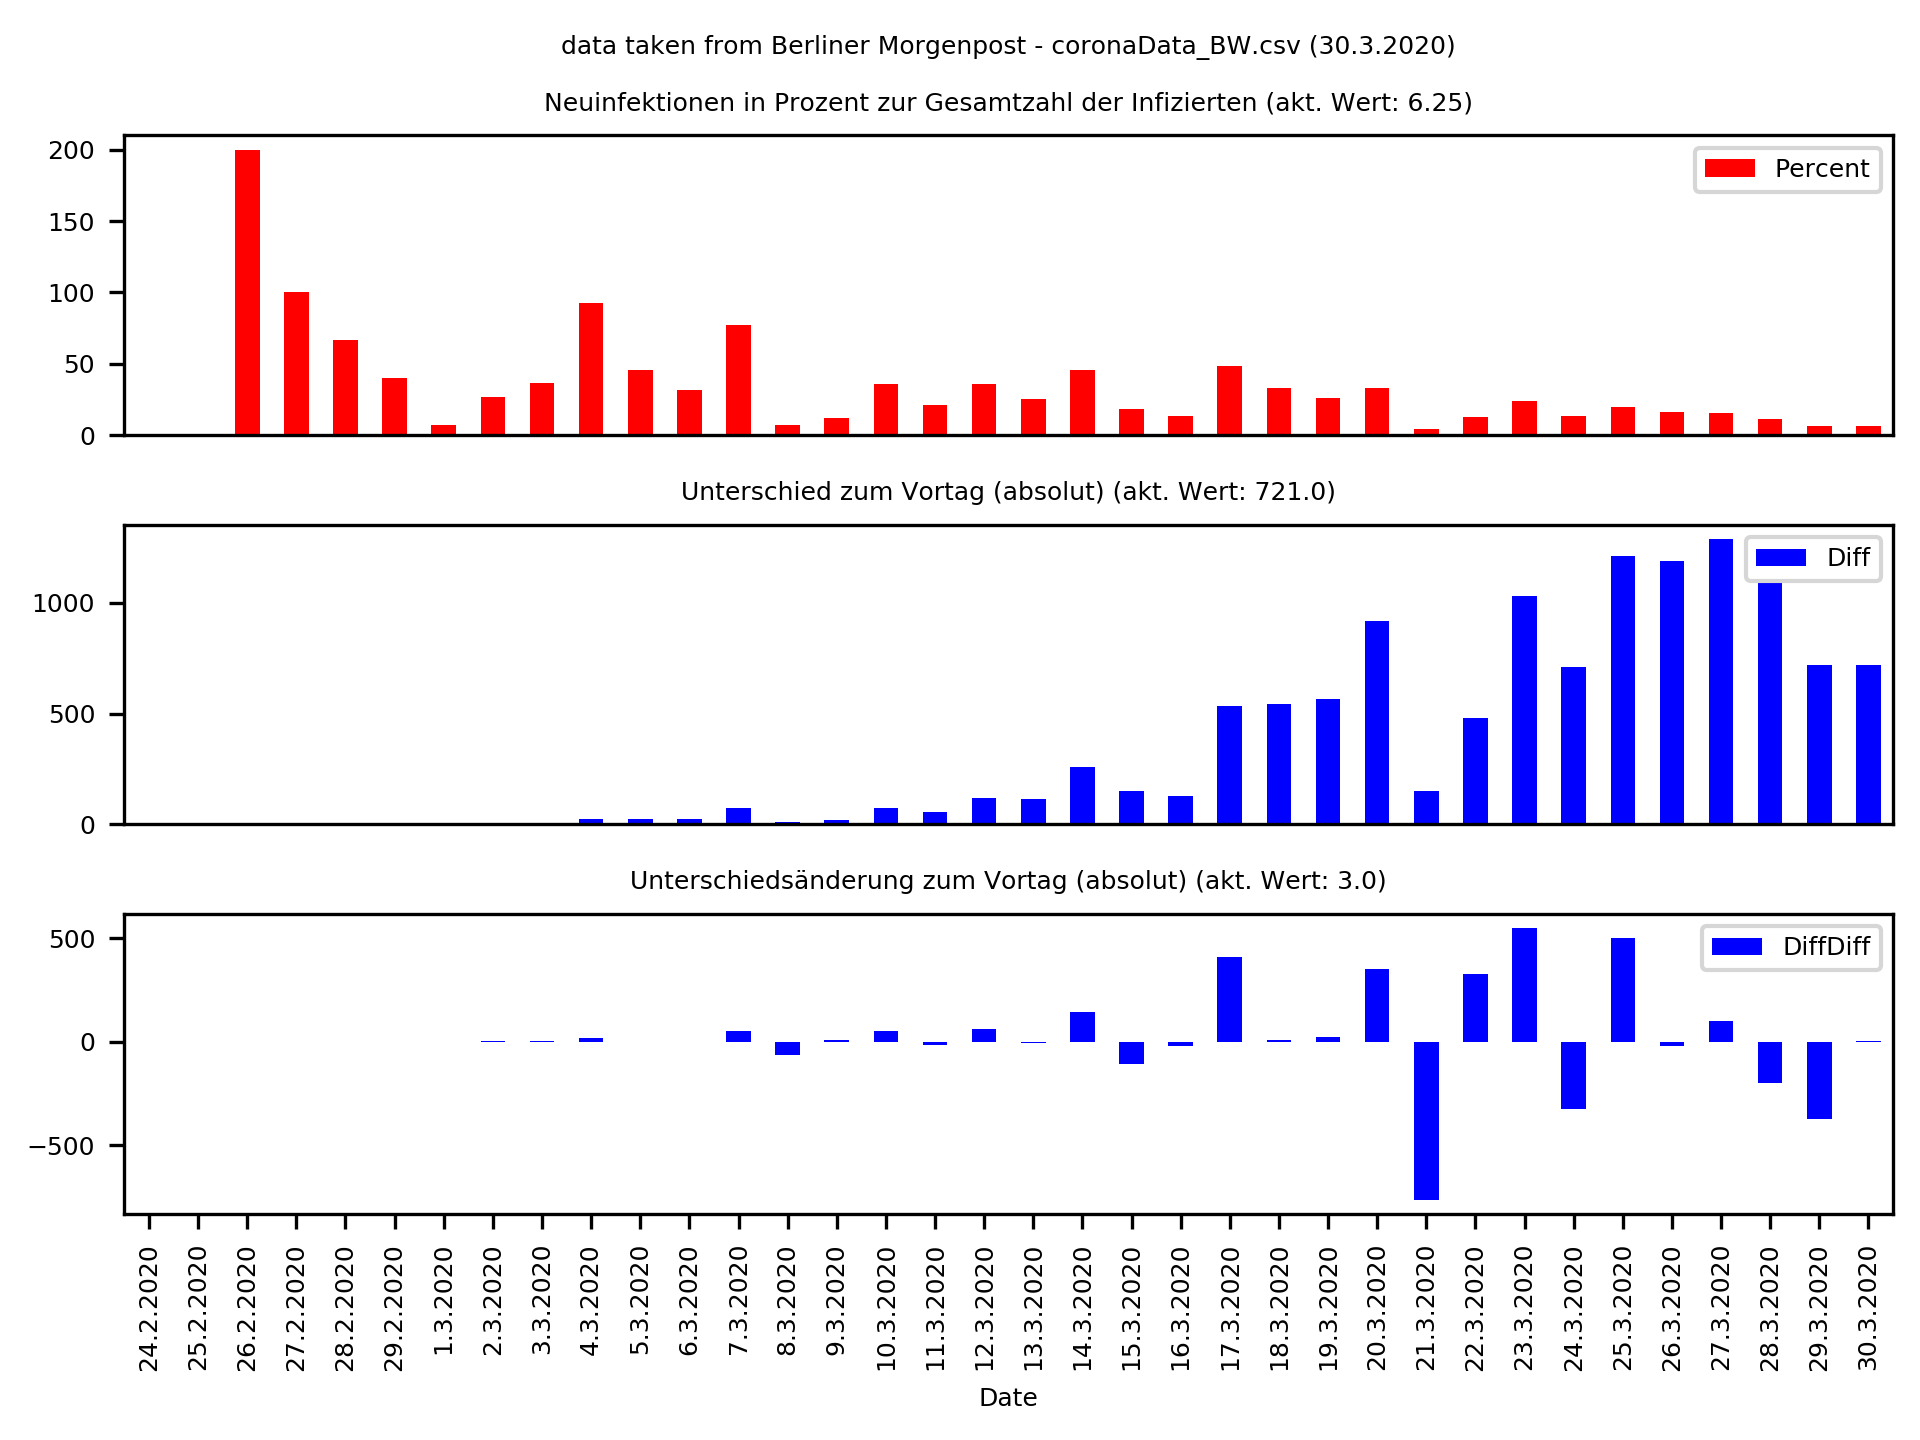
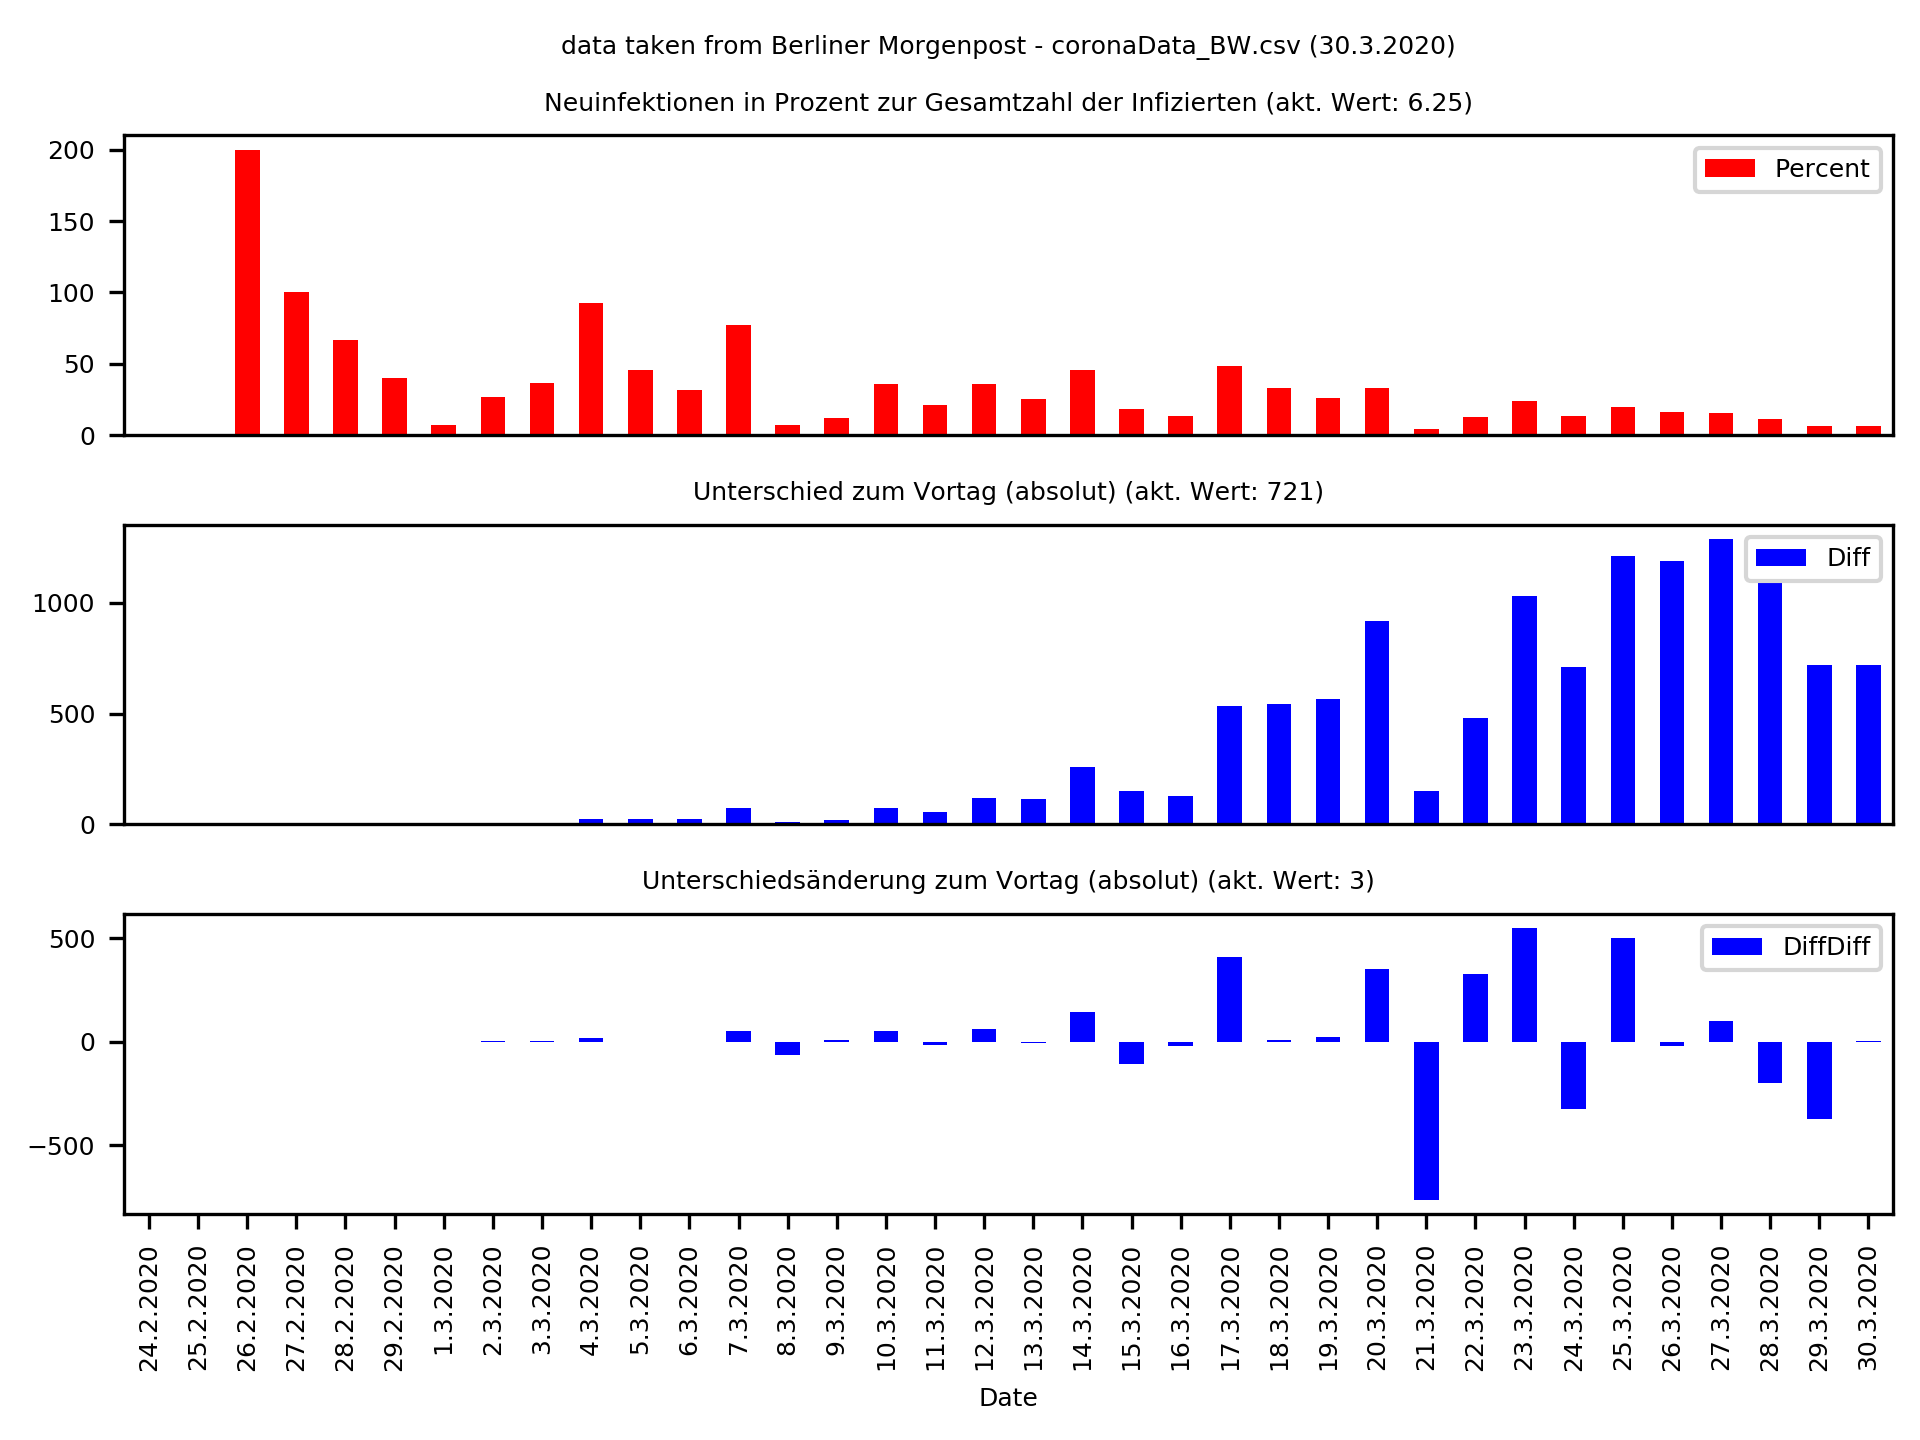
removed decimals in countable values

Changed region(s): [[0.3438, 0.5938, 0.7188, 0.625], [0.375, 0.3125, 0.6875, 0.375]]

diff --git a/report.py b/report.py
@@ -92,8 +92,8 @@ for localSuffix in localSuffixes:
     # ------------ second chart (containing of 3 subplots): the calculated values -------------
     # get values of last date in strings
     lastPercent = f"{outValue.iloc[-1]['Percent']:.2f}"
-    lastDiff = f"{outValue.iloc[-1]['Diff']}"
-    lastDiffDiff = f"{outValue.iloc[-1]['DiffDiff']}"
+    lastDiff = f"{outValue.iloc[-1]['Diff']:.0f}"
+    lastDiffDiff = f"{outValue.iloc[-1]['DiffDiff']:.0f}"
     
     
     fig, axes = plt.subplots(3,1)
